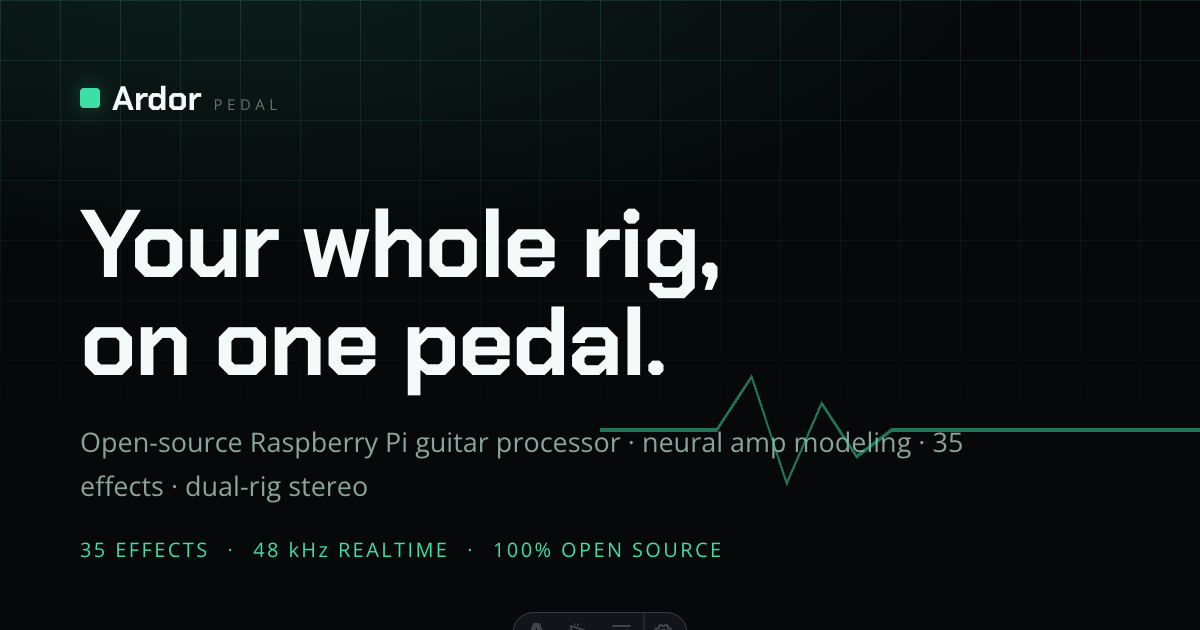
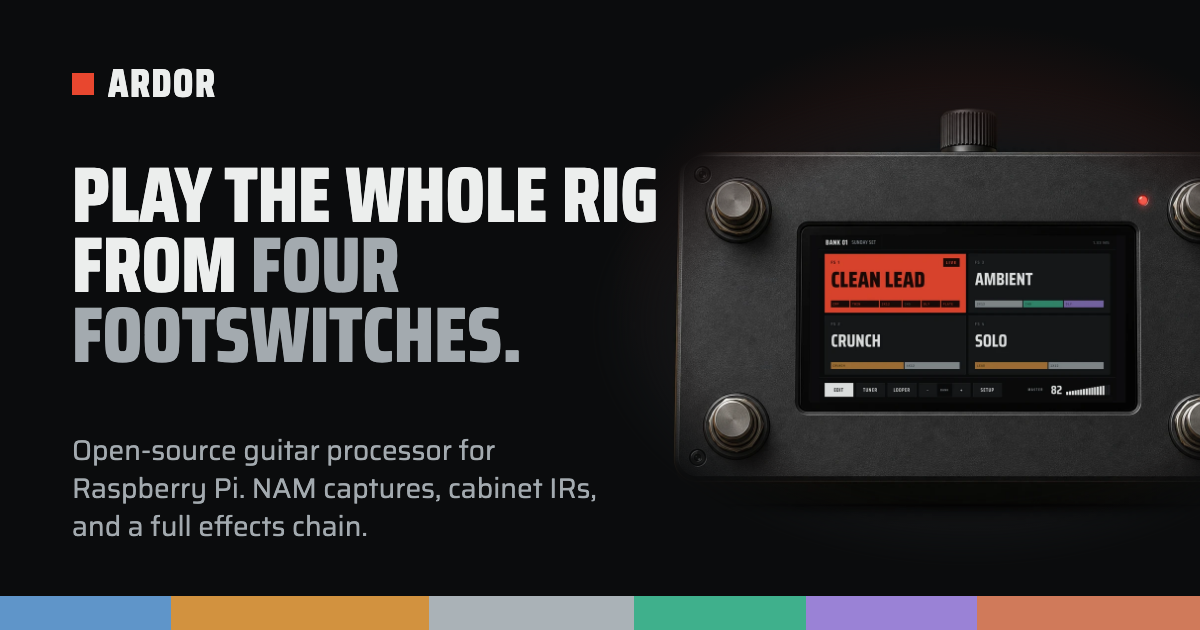
docs: record the Lamp Black website system and refresh brand assets
- DESIGN.md: the website now follows the device's Lamp Black palette.
  Record the One Lamp Rule, the new Glow Rule, the light theme, the
  components, the STE copy rules and the copy check, and how to
  regenerate device captures, the hero composite, and og.png.
- PRODUCT.md: 48 effects in five families from the catalog, real
  captures on the website, STE as the copy standard.
- New link preview image and favicon in Lamp Black; remove the unused
  ardor-pedal-hero.webp render.

Claude-Session: https://claude.ai/code/session_01D2r7o2NKLLHbgebhdyYpyw

diff --git a/DESIGN.md b/DESIGN.md
@@ -1,26 +1,37 @@
 ---
 name: Ardor Website
-description: An open-source guitar processor presented as a playable instrument panel.
+description: An open-source guitar processor on a lit stage, drawn in the pedal's own Lamp Black language.
 colors:
-  live-red: "#d8422f"
-  live-red-light: "#ed6b58"
-  live-red-dim: "#8e3026"
-  graphite-ground: "#141719"
-  graphite-recess: "#191c1f"
-  slate-plate: "#212528"
-  slate-panel: "#2a2f33"
-  rule: "#3b4247"
-  rule-strong: "#687178"
-  bone-engrave: "#e2e4e3"
-  secondary-engrave: "#8d9499"
-  disabled-engrave: "#697278"
-  warning-amber: "#c9973f"
-  amp-ochre: "#a8814e"
-  cabinet-silver: "#939a9e"
-  utility-slate: "#5f7f9c"
-  modulation-teal: "#5d8f80"
-  delay-violet: "#8175a0"
-  reverb-clay: "#a8785c"
+  lamp: "#e8472f"
+  lamp-light: "#f0725c"
+  lamp-dim: "#9a3324"
+  lamp-ink: "#1a0906"
+  ground: "#0b0c0d"
+  ground-2: "#121416"
+  surface: "#16181a"
+  elevated: "#1d2023"
+  hairline: "#2b2f33"
+  hairline-strong: "#525a60"
+  bezel: "#050506"
+  text: "#d2d6d8"
+  text-strong: "#eceeed"
+  text-bright: "#f7f8f7"
+  muted: "#a3aaaf"
+  muted-2: "#7c848a"
+  warn: "#e0a53c"
+  family-amp: "#d2923f"
+  family-cab: "#aab2b7"
+  family-util: "#5f95c9"
+  family-mod: "#3fb08c"
+  family-delay: "#9a82d6"
+  family-reverb: "#d07a5a"
+  glow-lamp: "rgba(232, 71, 47, 0.34)"
+  glow-lamp-strong: "rgba(232, 71, 47, 0.46)"
+  glow-lamp-soft: "rgba(232, 71, 47, 0.10)"
+  light-ground: "#eef0ef"
+  light-surface: "#f7f8f7"
+  light-text-strong: "#121416"
+  light-lamp: "#c73a24"
   device-ground: "#0b0c0d"
   device-recess: "#121416"
   device-plate: "#16181a"
@@ -39,20 +50,24 @@ colors:
 typography:
   display:
     fontFamily: "Saira Condensed, Arial Narrow, sans-serif"
-    fontSize: "clamp(3.4rem, 2.2rem + 5.4vw, 7rem)"
-    fontWeight: 600
-    lineHeight: 0.98
-    letterSpacing: "0.015em"
+    fontSize: "clamp(2.8rem, 1.2rem + 4.2vw, 4.6rem)"
+    fontWeight: 800
+    lineHeight: 0.9
+    letterSpacing: "0.005em"
+  headline:
+    fontFamily: "Saira Condensed, Arial Narrow, sans-serif"
+    fontSize: "clamp(2.3rem, 1.4rem + 3vw, 4.2rem)"
+    fontWeight: 700
+    lineHeight: 0.95
   body:
     fontFamily: "Saira, system-ui, sans-serif"
-    fontSize: "clamp(0.98rem, 0.94rem + 0.16vw, 1.08rem)"
+    fontSize: "clamp(1rem, 0.96rem + 0.16vw, 1.08rem)"
     fontWeight: 400
-    lineHeight: 1.55
+    lineHeight: 1.6
   label:
     fontFamily: "IBM Plex Mono, ui-monospace, monospace"
-    fontSize: "clamp(0.74rem, 0.72rem + 0.1vw, 0.82rem)"
+    fontSize: "clamp(0.8rem, 0.78rem + 0.1vw, 0.86rem)"
     fontWeight: 400
-    letterSpacing: "0.14em"
 rounded:
   none: "0"
 spacing:
@@ -61,66 +76,61 @@ spacing:
   md: "1rem"
   lg: "1.5rem"
   xl: "2.5rem"
-  section: "7rem"
+  xxl: "4rem"
+  section: "clamp(5rem, 10vw, 8.75rem)"
 components:
   button-primary:
-    backgroundColor: "{colors.bone-engrave}"
-    textColor: "{colors.graphite-ground}"
+    backgroundColor: "{colors.text-strong}"
+    textColor: "{colors.ground}"
     rounded: "{rounded.none}"
-    padding: "0.75em 1.2em"
-  button-ghost:
-    backgroundColor: "transparent"
-    textColor: "{colors.bone-engrave}"
+    padding: "0 1.6rem"
+  button-secondary:
+    backgroundColor: "{colors.surface}"
+    textColor: "{colors.text-strong}"
     rounded: "{rounded.none}"
-    padding: "0.75em 1.2em"
-  panel:
-    backgroundColor: "{colors.slate-plate}"
-    textColor: "{colors.bone-engrave}"
+    padding: "0 1.6rem"
+  device-capture:
+    backgroundColor: "{colors.bezel}"
     rounded: "{rounded.none}"
-    padding: "1.5rem"
+    padding: "10px"
 ---
 
 # Design System: Ardor Website
 
 ## Overview
 
-**Creative North Star: "The playable nomenclature plate"**
+**Creative North Star: "The lit stage."**
 
-Ardor's website treats the product as an instrument before it treats it as software. The visual system carries the same Panel language as the device UI: graphite planes, bone lettering, calibrated rules, family color bars, and one reserved live lamp. It is technical in its precision, but the first read is always a guitarist finding their sound.
+The website uses the pedal's own **Lamp Black** language (chosen 2026-09-25 as direction 1 in `mockups/website-taste/`). The page is a dark stage. The real pedal screens are the objects on it. Lamp red is the one light that means live, and it lights the ground around it. The family colours are the stage lights of the chain.
 
-The homepage is a quiet, dark stage for the physical pedal and its screen. Detail is earned through demonstration: the real preset map, signal rail, EQ editor, and tuner lead into a lighter overview of the rig. The site may offer a light theme, but it keeps the same square geometry, type pairing, rules, and red live accent.
+The first read is always a guitarist finding their sound: hear it, see the screens, find every block, then build it from open source.
 
-**Key Characteristics:**
-- Flat slate plates with hard 1px rules.
-- Saira Condensed nomenclature with Saira measurement values.
-- Color groups functions; red marks only what is live.
-- Screen mockups mirror the actual 1280 × 720 Panel UI.
+**Key characteristics:**
+- Near-black ground, bone type, saturated family colours.
+- Real LVGL captures of the device screen, never HTML copies of it.
+- Glows that always come from a visible source.
+- Square corners everywhere. Saira Condensed for what a player scans.
 
 ## Colors
 
-The palette is restrained: graphite and bone do most of the work; muted family colors group modules; live red is rare enough to mean something.
+Source of truth: `website/src/styles/tokens.css`, which uses the device values from `src/ui/LvglUiStyle.cpp`.
 
-### Primary
-- **Live red** (`#d8422f`): The single active/live signal for the homepage and the Slate device screen representations.
-
-### Secondary
-- **Warning amber** (`#c9973f`): Caution and muted output states; never a substitute for live red.
-
-### Tertiary
-- **Amp ochre** (`#a8814e`), **cabinet silver** (`#939a9e`), **utility slate** (`#5f7f9c`), **modulation teal** (`#5d8f80`), **delay violet** (`#8175a0`), and **reverb clay** (`#a8785c`): Family identifiers for signal blocks and sound categories.
-
-### Neutral
-- **Graphite ground** (`#141719`) and **graphite recess** (`#191c1f`): Page canvas and recessed screen areas.
-- **Slate plate** (`#212528`) and **slate panel** (`#2a2f33`): Main planes and raised module bodies.
-- **Bone engrave** (`#e2e4e3`): Primary headlines, active labels, and high-priority values.
-- **Secondary engrave** (`#8d9499`) and **disabled engrave** (`#697278`): Supporting labels, legends, and inactive states.
-- **Rule** (`#3b4247`) and **strong rule** (`#687178`): Hairlines, brackets, frames, and focus-visible boundaries.
+- **Ground** (`#0b0c0d`) under **surface** (`#16181a`) and **elevated** (`#1d2023`). The wide value range lets a plate read as raised.
+- **Bone** text (`#eceeed`), **muted** (`#a3aaaf`) for ledes, **muted-2** (`#7c848a`) for footnotes. Every text pair passes WCAG AA in both themes.
+- **Lamp** (`#e8472f`) with **lamp ink** (`#1a0906`) for text on a flooded lamp.
+- **Family colours**: amp `#d2923f` (drive shares it, as on the device), cabinet `#aab2b7`, utility `#5f95c9`, modulation `#3fb08c`, delay `#9a82d6`, reverb `#d07a5a`.
 
 ### Named Rules
 
-**The One Lamp Rule.** Live red means what is running or selected; do not spend it on decoration, general calls to action, or ordinary success states.
+**The One Lamp Rule.** Lamp red means live or selected: the live preset, the current docs page, the Ardor source in the A/B player. It is not a button colour and not decoration. Buttons are bone or plate, and hover never turns red.
 
-**The Family Bar Rule.** Category colors identify amp, cab, utility, modulation, delay, and reverb. They are structural labels, not a rainbow accent system.
+**The Glow Rule.** Every glow has a visible source. Red light appears only around something red and live: the live tile on the pedal, the red part of a capture, the A/B tile when Ardor plays, and the stage light under the closing call to build. The family strip lights the section below it in its own colours; the Dual Rig lanes light the ground blue and amber. A glow is a box centred on its source with `radial-gradient(closest-side, ...)`, so it always fades out before its edge. Docs pages have no glows, because nothing there emits light.
+
+**The Family Bar Rule.** Family colours identify blocks: strips, card headers, chips. They are structural labels, not a rainbow accent system.
+
+### Light theme
+
+The toggle offers a cool neutral light theme (ground `#eef0ef`, lamp `#c73a24`). Rules and letterforms stay. Glows get quieter (`--glow-family` 12% instead of 20%). Device screens stay dark in both themes, and the hero render sits on a dark stage plate, because its own background is dark.
 
 ### Device screen: Lamp Black
 
@@ -131,7 +141,7 @@ The pedal's default Slate palette carries the **Lamp Black** values (`device-*` 
 - **Family colours** are raised in chroma so the chain strip on each preset tile, the chain-card value bars and the drawer code squares read at a glance.
 - Flatness stays a hard rule on the device: the Pi panel is RGB565, so depth comes from flat planes and hard offset plates, never gradients or blur.
 
-The website's screen showcase (`website/src/components/screens/`) uses the same values, and its preset screen mirrors the flooded live tile, chain strip and master meter.
+The website shows the real screens as LVGL captures (see **Device captures** below), and the website palette uses these same values.
 
 Device extras beyond the Panel tokens: **raised plate** (`#202326`) for selected chips and segments, **lamp ink** (`#1a0b08`) for lettering on the flooded lamp, **danger** text on a **danger rule** (`#f0a497` on `#6b3a32`) for destructive actions, a **lift shadow** (`#040505`) under the selected chain card, and **warn ink** (`#1b1305`) on warn tags.
 
@@ -139,79 +149,66 @@ Device extras beyond the Panel tokens: **raised plate** (`#202326`) for selected
 
 ## Typography
 
-**Display Font:** Saira Condensed (with Arial Narrow, sans-serif)
-**Body Font:** Saira (with system-ui, sans-serif)
-**Label/Mono Font:** IBM Plex Mono (with ui-monospace, monospace)
+**Display:** Saira Condensed 600 to 800. **Body:** Saira 400 to 600. **Mono:** IBM Plex Mono 400 and 500. All are self-hosted through Fontsource.
 
-**Character:** Saira Condensed carries the engraved, instrument-panel voice in uppercase names and actions. Saira keeps measurements, explanatory copy, and numeric readouts open and calm. IBM Plex Mono is reserved for true labels, identifiers, and technical metadata.
+- **Display** (800, `clamp(2.8rem, 1.2rem + 4.2vw, 4.6rem)`, 0.9): the hero, two lines at 1440 px.
+- **Headline** (700, `clamp(2.3rem, 1.4rem + 3vw, 4.2rem)`, 0.95): section titles.
+- **Title** (700, `clamp(1.5rem, 1.28rem + 0.9vw, 2.05rem)`): card and pair titles.
+- **Body** (400, `clamp(1rem, 0.96rem + 0.16vw, 1.08rem)`, 1.6) and **lede** (`clamp(1.14rem, 1.06rem + 0.34vw, 1.3rem)`, muted).
+- **Label** (IBM Plex Mono, `0.8rem` to `0.86rem`): footnotes, gesture hints, captions of renders.
 
-### Hierarchy
-- **Display** (600, `clamp(3.4rem, 2.2rem + 5.4vw, 7rem)`, `0.98`): The homepage promise and largest section statements.
-- **Headline** (600, `clamp(2rem, 1.55rem + 1.65vw, 3rem)`, `0.98`): Section titles and the closing invitation.
-- **Title** (600, `clamp(1.2rem, 1.08rem + 0.5vw, 1.48rem)`, `0.98`): Feature rows, effect names, and navigation labels.
-- **Body** (400, `clamp(0.98rem, 0.94rem + 0.16vw, 1.08rem)`, `1.55`): Explanatory copy, held to a readable measure.
-- **Label** (400, `clamp(0.74rem, 0.72rem + 0.1vw, 0.82rem)`, `0.14em`, uppercase): Rails, metadata, families, and captions.
-
-### Named Rules
-
-**The Engraved Hierarchy Rule.** Use condensed uppercase for what a player scans; use Saira for values and prose; use mono only when the text is truly a label or identifier.
+**The Engraved Hierarchy Rule.** Condensed uppercase for what a player scans. Saira for prose and values. Mono only for true labels. Units keep their case (ms, kHz, dBFS): never put a unit inside an uppercase transform.
 
 ## Layout
 
-The site uses a centered `1240px` maximum canvas with `1.5rem` inline padding, generous `7rem` section spacing, and 1px separators between major bands. The homepage alternates a large demonstration with quieter text rails: physical pedal first, screen showcase second, then feature rows, signal flow, effect names, and the open-source close.
-
-The hero is a two-column composition that collapses to a single column below `1000px`. Screen frames use a two-column grid until `760px`, then stack. Feature rows use four columns on wide screens and collapse to an indexed two-column rhythm on narrow screens. At mobile widths, the hero facts stack and the final action panel becomes vertical.
+- Container `1320px` with a `clamp(16px, 4vw, 48px)` gutter. The page never scrolls sideways: `main` clips horizontal overflow from glows.
+- Homepage order: hero, family strip, listen (only when the demo exists), interface bento, Scenes and Looper pair, chain, tones, effect families, open close. No two neighbouring sections share a layout family.
+- At most one eyebrow on the homepage (the hero). No section numbers.
+- Below 980 px every grid becomes one column.
 
 ## Elevation & Depth
 
-The Panel UI is flat by construction: tonal planes, 1px rules, brackets, and hard module headers do the depth work. The website adds only a restrained black contact shadow to the physical/product screen frames so they separate from the canvas; screen interiors themselves never glow or use decorative gradients.
-
-### Shadow Vocabulary
-- **Product contact shadow** (`0 24px 34px rgba(0, 0, 0, 0.45)`): The fallback pedal silhouette's physical grounding.
-- **Screen frame shadow** (`0 18px 34px rgba(0, 0, 0, 0.28)`): Separates a display bezel from the page, never used inside the LVGL representation.
-
-### Named Rules
-
-**The Flat Plate Rule.** A screen or UI surface is flat at rest. If depth is needed, change the plane or add a rule; do not add a glow, gradient, glass card, or soft shadow inside the device language.
+- **Object shadow** (`0 30px 60px -20px rgba(0,0,0,0.8)` plus a 1 px ring): only for device captures and the light-theme stage plate.
+- **Glows**: see the Glow Rule. They are the only gradients on the page, apart from the colour wash that falls from a family header into its card.
+- The pedal screen itself stays flat (RGB565); depth belongs to the page, never to the screen.
 
 ## Shapes
 
-All website panels, buttons, screen bezels, module blocks, and effect groups use square corners (`0`). Borders are mostly 1px; thicker color lines are reserved for family headers and the live signal. Bracket corners and calibration lines are recurring geometry, especially around the hero stage and content rails.
+Square corners (`0`) for every panel, button, bezel, card, and chip. Borders are 1 px; family headers and chips carry colour as fills or 3 to 4 px top rules.
 
 ## Components
 
-### Buttons
-- **Shape:** Square, engraved plate geometry (`0` radius).
-- **Primary:** Bone foreground on graphite canvas, `0.75em 1.2em` padding, condensed uppercase lettering.
-- **Hover / Focus:** Hover switches to live red; `:focus-visible` uses a 2px live-red outline with a 3px offset.
-- **Secondary / Ghost:** Transparent graphite ground with a strong rule; hover changes only the rule and label color.
+- **Buttons:** primary is a bone fill with ground text; secondary is a surface plate with a hairline. Condensed uppercase, one line, 3.5 rem high. Active state moves down 1 px.
+- **Device captures** (`DeviceScreen.astro`): a real capture in a 10 px `#050506` bezel with the object shadow, an optional caption, and an optional glow at the red part (`glow={{ x, y }}`, or `glow="dual"` for the Dual Rig lanes). Images go through `astro:assets`.
+- **A/B player** (`home/ListenPlayer.astro`): a preset tile. Ardor floods it with lamp red and lights the ground; Dry leaves it dark. Both clips play in sync and the switch only changes which one you hear. The waveform comes from real peaks in `public/audio/demo.json`. The section renders only when that manifest and both clips exist.
+- **Effect families** (`home/EffectFamilies.astro`): module-drawer cards from the catalog, the largest family at double width.
+- **Nav:** translucent sticky bar with blur and a solid fallback; red square mark; links match section headings.
+- **Docs:** sidebar with the lamp on the current page; callouts are plates (warnings get a warm tint), never a thick side border; "Advanced" sections are collapsed plates.
+- **Interactive manual:** the simulated pedal screen follows the real Lamp Black preset screen and keeps fixed device values in both themes.
 
-### Cards / Containers
-- **Corner Style:** Square (`0` radius); no nested rounded cards.
-- **Background:** Slate plate or slate panel, separated by a 1px rule.
-- **Shadow Strategy:** No shadow for UI content; the screen frame uses the documented product contact shadow.
-- **Internal Padding:** `1rem` to `1.5rem` for content surfaces; screen bezel padding is `0.65rem`.
+## Copy
 
-### Navigation
-- **Style:** Sticky graphite rail with a 1px bottom rule. Ardor uses a red square mark, condensed uppercase links, and a compact GitHub action.
-- **States:** Links rest in secondary engrave, then move to bone on hover; the mark remains the live red anchor.
-- **Mobile:** Links collapse behind the existing menu control at `820px` while the primary actions remain available.
+Site copy follows Simplified Technical English: one idea per sentence, active voice, no metaphors, no em or en dashes (ranges read "1 to 4"). Product terms stay exact: NAM, IR, Dual Rig, block, chain, lane, bank, slot, preset. Goals stay goals: "round-trip latency goal", never a measured claim.
 
-### Panel Screen Showcase
+Counts come from the catalog at build time (`counts.effects`, `effectFamilies`). `npm run test:copy` fails the build on dashes, on wrong effect totals, on catalog blocks missing from the effects reference, and on known wrong phrases.
 
-The `PresetScreen`, `EditScreen`, `EqScreen`, and `TunerScreen` components reproduce the device's 1280 × 720 Panel grammar inside a scalable bezel. The preset map is intentionally arranged `1 / 3` above `2 / 4` to mirror the physical footswitch corners; the running preset is the only full live-red state. Signal blocks use family header colors, patch points are circles on a rule, the EQ exposes its selected-band strip, and the tuner is center-zero with a muted-output warning.
+## Assets
+
+- **Device captures:** `cmake --build build-sdl --target pedal-lvgl-ui-screenshots`, then `./build-sdl/pedal-lvgl-ui-screenshots <dir>`. Convert the PPM files to PNG and copy the ones in use to `website/src/assets/device/`.
+- **Hero:** `website/src/assets/pedal-hero.webp` is the concept render with the real preset capture composited into its screen (screen area x 444 to 1082, y 354 to 691 at 1536 x 1024). Replace it with a photo of the built pedal when one exists.
+- **Link preview:** `website/public/og.png` (1200 x 630) repeats the hero. It names no counts, so it cannot drift.
+- **Favicon:** the lamp-red square on the Lamp Black ground.
 
 ## Do's and Don'ts
 
 ### Do:
-- **Do** let the product and its on-pedal interface appear before the implementation details.
-- **Do** use hard rules, flat tonal planes, and family colors to explain structure.
-- **Do** keep the live red rare and meaningful.
-- **Do** use the Panel screen components as the visual authority for device UI imagery.
-- **Do** preserve the distinction between player-facing clarity on the pedal and depth in the docs/manager.
+- **Do** show real captures of the device, and name renders as renders.
+- **Do** keep lamp red for live and selected state, and let it light its surroundings.
+- **Do** take counts and names from the catalog.
+- **Do** check both themes and 390 px width before you ship.
 
 ### Don't:
-- **Don't** bring back the retired teal glow, decorative grid, gradient, or rounded-card language.
-- **Don't** turn every technical fact into a homepage metric; route deeper material to documentation.
-- **Don't** use family colors as generic calls to action or neutral decoration.
-- **Don't** use a gray fault state without a distinct border and explicit recovery text.
+- **Don't** build HTML copies of the device screen.
+- **Don't** add a glow without a visible source, or a gradient for decoration.
+- **Don't** use section numbers, decorative micro-labels, or a thick side border on cards.
+- **Don't** write a number into copy by hand when the catalog has it.

diff --git a/PRODUCT.md b/PRODUCT.md
@@ -87,7 +87,9 @@ Engine and product facts future work must not contradict:
 - Mono input, stereo output.
 - Neural Amp Modeler `.nam` captures with optional embedded nano submodels.
 - Cabinet IRs via partitioned convolution.
-- 35 built-in effects: 13 modulation/special, 10 delay, 12 reverb.
+- 48 built-in effects: 3 drive, 6 dynamics and tone, 16 modulation, 10 delay,
+  13 reverb. The catalog (`apps/manager/src/effects/catalog.v1.json`) is the
+  source of truth; the website takes its counts from it at build time.
 - Compressor, stereo-linked noise gate with zero added latency, five-band
   parametric EQ (±18 dB) with high-pass and low-pass filters and a live response graph.
 - Dual Amp (fixed two-lane block) and Dual Rig (two independent child chains,
@@ -108,14 +110,16 @@ Terminology used consistently across product and interface: *block*, *chain*,
 
 **Only the name "Ardor" is fixed.** Nothing else is locked.
 
-- `website/public/favicon.svg` and `website/public/og.png` are **placeholders**,
-  explicitly free to be replaced.
+- The website uses the device's **Lamp Black** palette (chosen 2026-09-25; see
+  `DESIGN.md`). `website/public/favicon.svg` is a lamp-red square and
+  `website/public/og.png` repeats the homepage hero. Both are working marks,
+  not a committed logo, and stay free to be replaced.
 - The green default UI accent is *not* a binding commitment; the device already
   offers a user-selectable global accent color.
 - No wordmark, logo system, typeface, or palette has been committed to.
-- There is no established voice document. Existing copy in `README.md` and
-  `website/src/data/` is precise, technical, and unhyped — a reasonable starting
-  reference, not a ratified standard.
+- Website copy follows Simplified Technical English (confirmed 2026-09-25):
+  precise, technical, and unhyped, with product terms kept exact. `DESIGN.md`
+  records the rules and `npm run test:copy` enforces the checkable ones.
 
 The user has stated they are **open to redesign and want new perspectives**, on
 the current website and identity. This is an invitation, not a rejection of what
@@ -130,12 +134,12 @@ Real:
 - **Audio demos exist or can be recorded.** `dryguitar.wav`, `ardor-wet.wav`, and
   `ardor-wet2.wav` are in the repository root; real playing demos are obtainable.
 - **Real LVGL UI screenshots are obtainable** from the SDL simulator
-  (`./scripts/build-sim.sh`, then `pedal-ui-sim`). The current website renders the
-  device screens as hand-built HTML approximations in
-  `website/src/components/screens/` rather than captures of the real interface.
-- **35 effects with real parameter metadata** — names, semantic labels, physical
-  units, defaults, and ranges — generated from `src/daisyfx/DaisyFxCatalog.cpp`
-  into `website/src/data/effects.generated.json`.
+  (`./scripts/build-sim.sh`, then `pedal-ui-sim`) and from
+  `pedal-lvgl-ui-screenshots`. The website shows these captures in
+  `website/src/assets/device/`.
+- **52 blocks with real parameter metadata** (48 effects plus NAM, cabinet,
+  Dual Amp, and Dual Rig): names, semantic labels, physical units, defaults, and
+  ranges, generated from the catalog into `website/src/data/effects.generated.json`.
 - **A physical enclosure design** — `enclosure.openscad` and printable `.3mf`
   files in `3d_files/`. A KiCad schematic for the control-I/O board is in
   `hardware/control-io/`.
